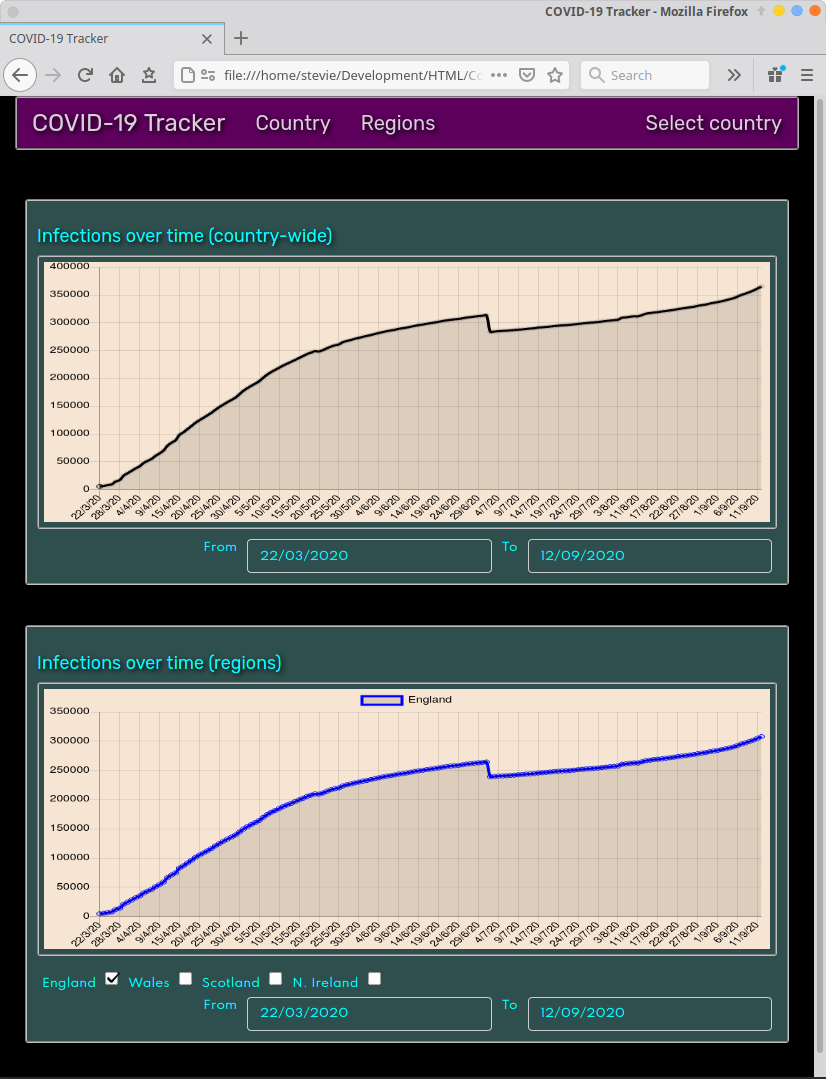
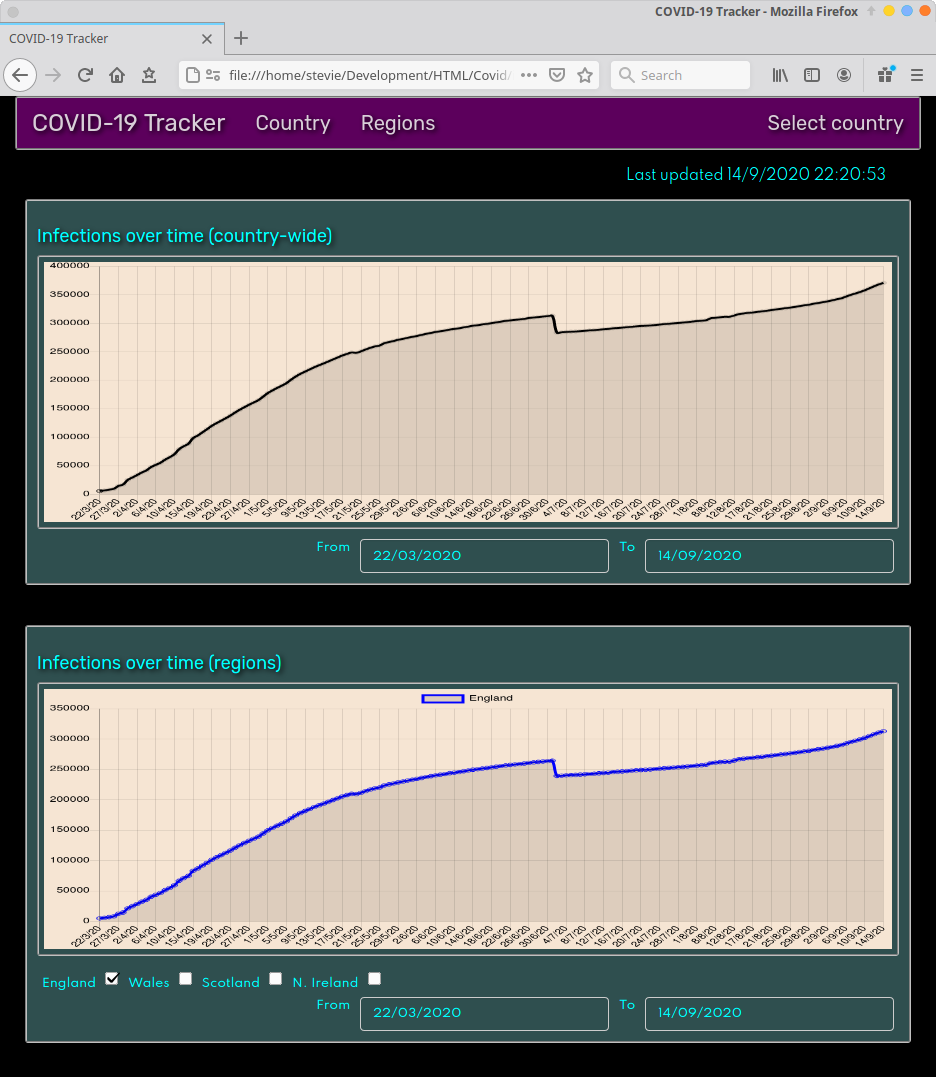
Adding last update date\time plus general tidy up.

diff --git a/data_processing.js b/data_processing.js
@@ -51,6 +51,13 @@ function getChartDateString(d) {
     return d.getDate() + "/" + (d.getMonth() + 1) + "/" + String(d.getFullYear()).substring(2, 4);
 }
 
+function getDateTimeString(d) {
+
+    return d.getDate() + "/" + (d.getMonth() + 1) + "/" + d.getFullYear()
+           + " " +
+           d.toTimeString().split(" ")[0];
+}
+
 function getRegDataBlock(rawBlock) {
 
     let eng = rawBlock["england"];
@@ -330,8 +337,22 @@ function rebuildRegChart() {
     });
 }
 
+function startLoading() {
+
+    $("#status_panel_text").text("Retrieving data");
+    $("#loader_1").css("visibility", "visible");
+
+}
+
+function stopLoading(msg) {
+
+    $("#status_panel_text").text(msg);
+    $("#loader_1").css("visibility", "hidden");
+}
+
 function retrieveAndProcessData() {
 
+    startLoading();
     updateDatePickers();
 
     rebuildUKChart();
@@ -341,6 +362,7 @@ function retrieveAndProcessData() {
 
     $.getJSON(src, function (rawData) {
 
+        stopLoading("Last updated " + getDateTimeString(new Date(Date.now())));
         buildDataStore(rawData);
 
         updateDatePickers();
@@ -348,6 +370,5 @@ function retrieveAndProcessData() {
         rebuildUKChart();
         rebuildRegChart();
     })
-    .fail(function () { alert("Failed to retrieve data from API"); })
-    .always(function () { $("#loading_panel").css("visibility", "hidden"); });
+    .fail(function () { stopLoading("Failed to retrieve data from API"); })
 }

diff --git a/public/stylesheets/main.css b/public/stylesheets/main.css
@@ -95,12 +95,12 @@ body {
 
 /* A simple loading indication... */
 
-#loading_panel {
+#status_panel {
     text-align: right;
     padding-bottom: 10px;
 }
 
-#loading_panel h3 {
+#status_panel_text {
     display: inline;
     margin-right: 5px;
     font-size: 0.7em;
@@ -115,7 +115,7 @@ body {
     position: relative;
 }
 
-#loader-1:before, #loader-1:after {
+#loader_1:before, #loader_1:after {
     position: absolute;
     width: 100%;
     height: 100%;
@@ -124,13 +124,13 @@ body {
     border-top-color: silver;
 }
 
-#loader-1:before {
+#loader_1:before {
     content: "";
     z-index: 100;
     animation: spin 1s infinite;
 }
 
-#loader-1:after {
+#loader_1:after {
     content: "";
     border: 10px solid rgb(102, 0, 102); /*dark purple*/;
 }

diff --git a/index.html b/index.html
@@ -75,9 +75,9 @@
         </div><!-- /.container-fluid -->
     </nav>
 
-    <div id="loading_panel">
-        <h3>Retrieving data</h3>
-        <span class="loader" id="loader-1"></span>
+    <div id="status_panel">
+        <h3 id="status_panel_text">Retrieving data</h3>
+        <span class="loader" id="loader_1"></span>
     </div>
 
     <div class="feature_section">
